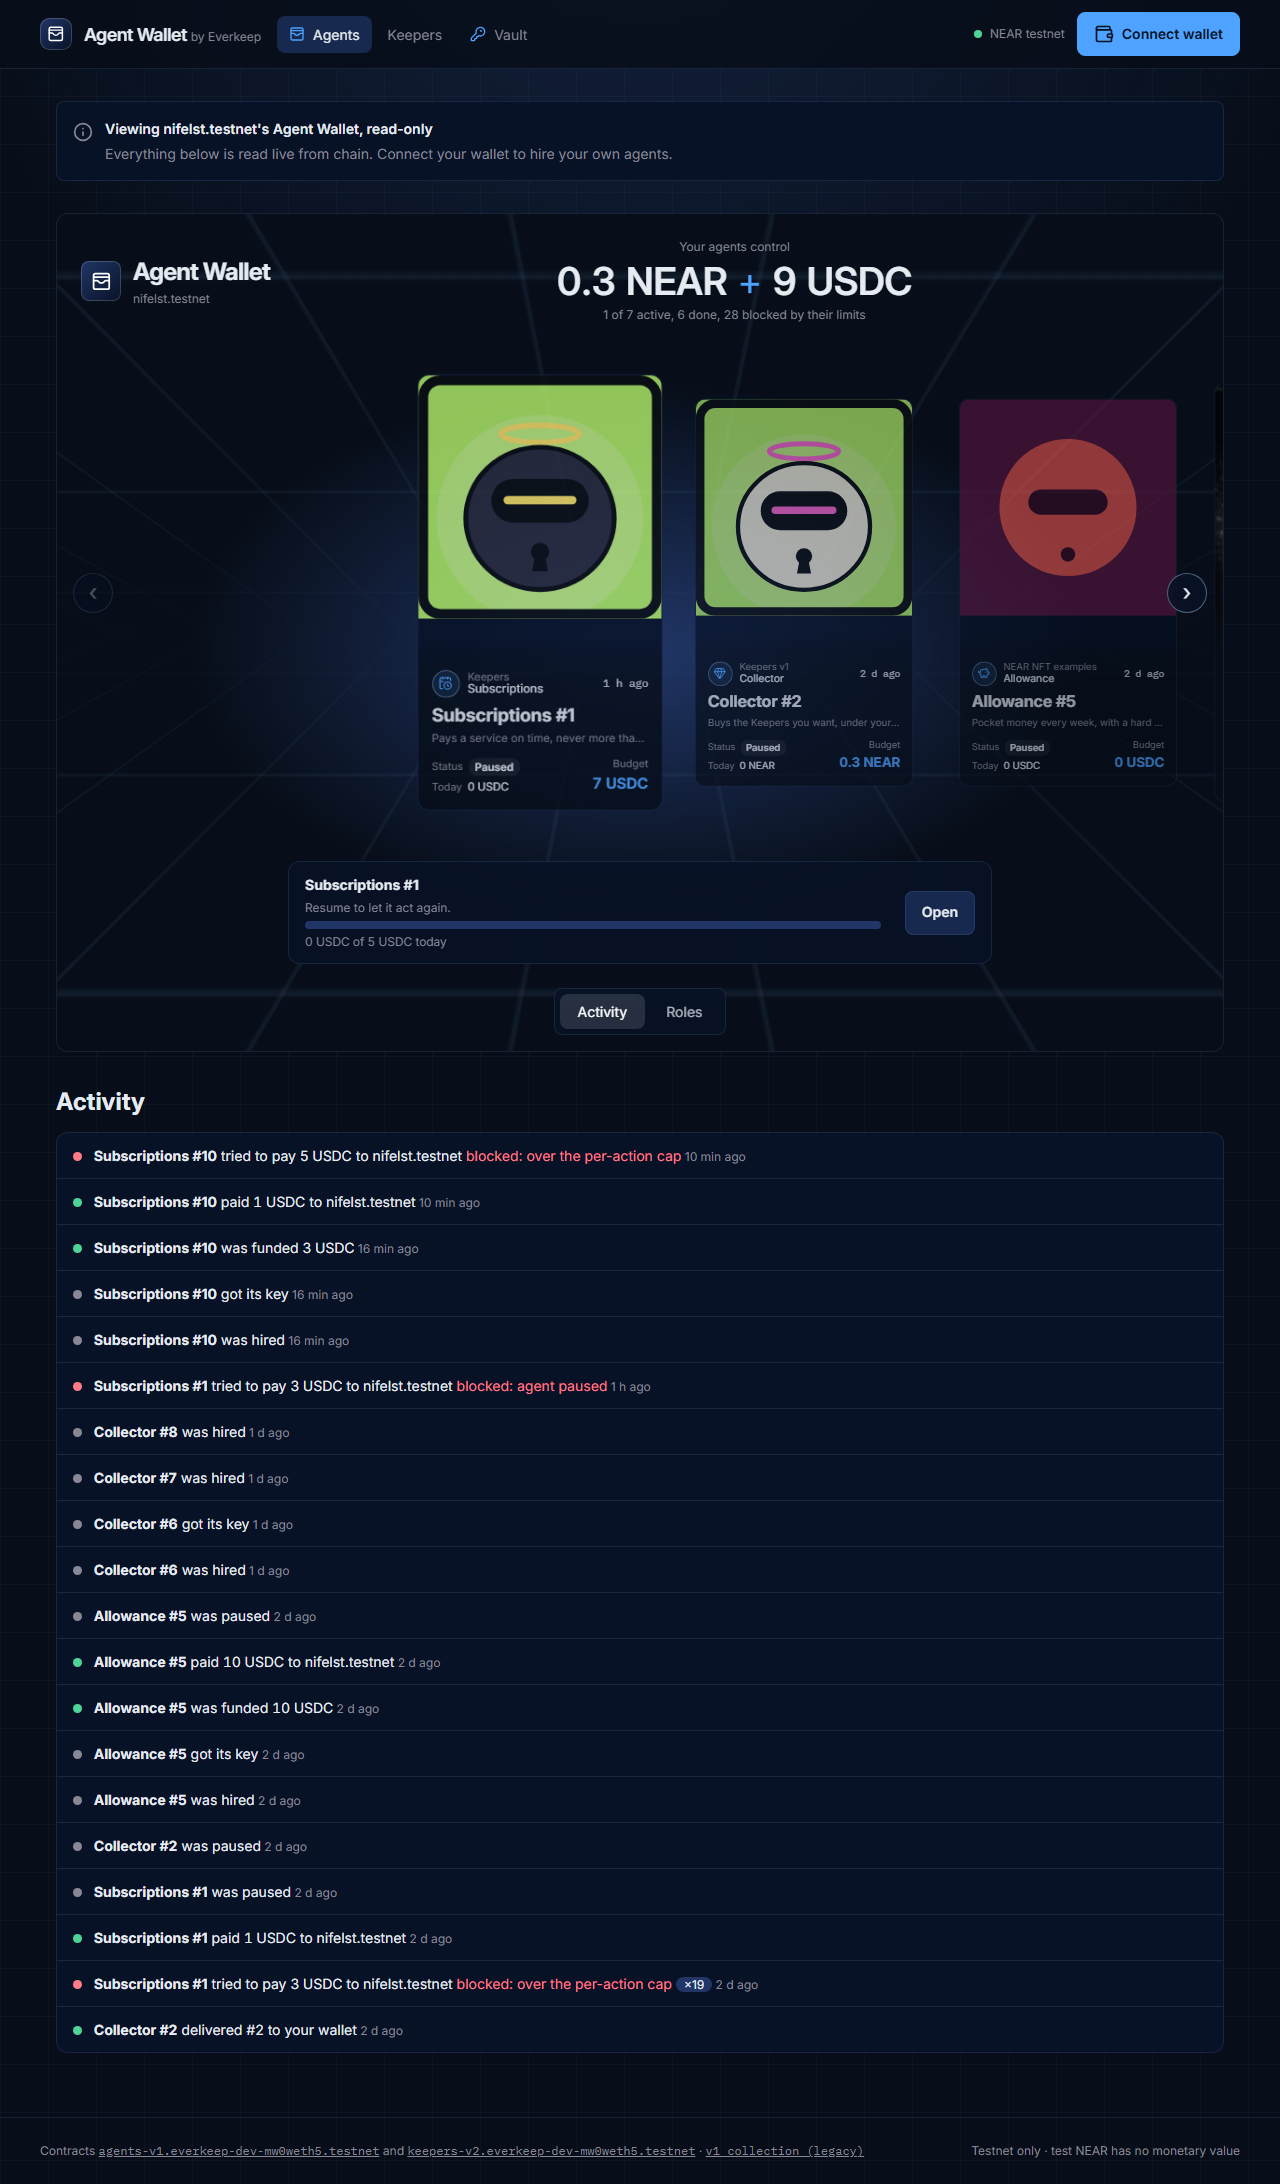
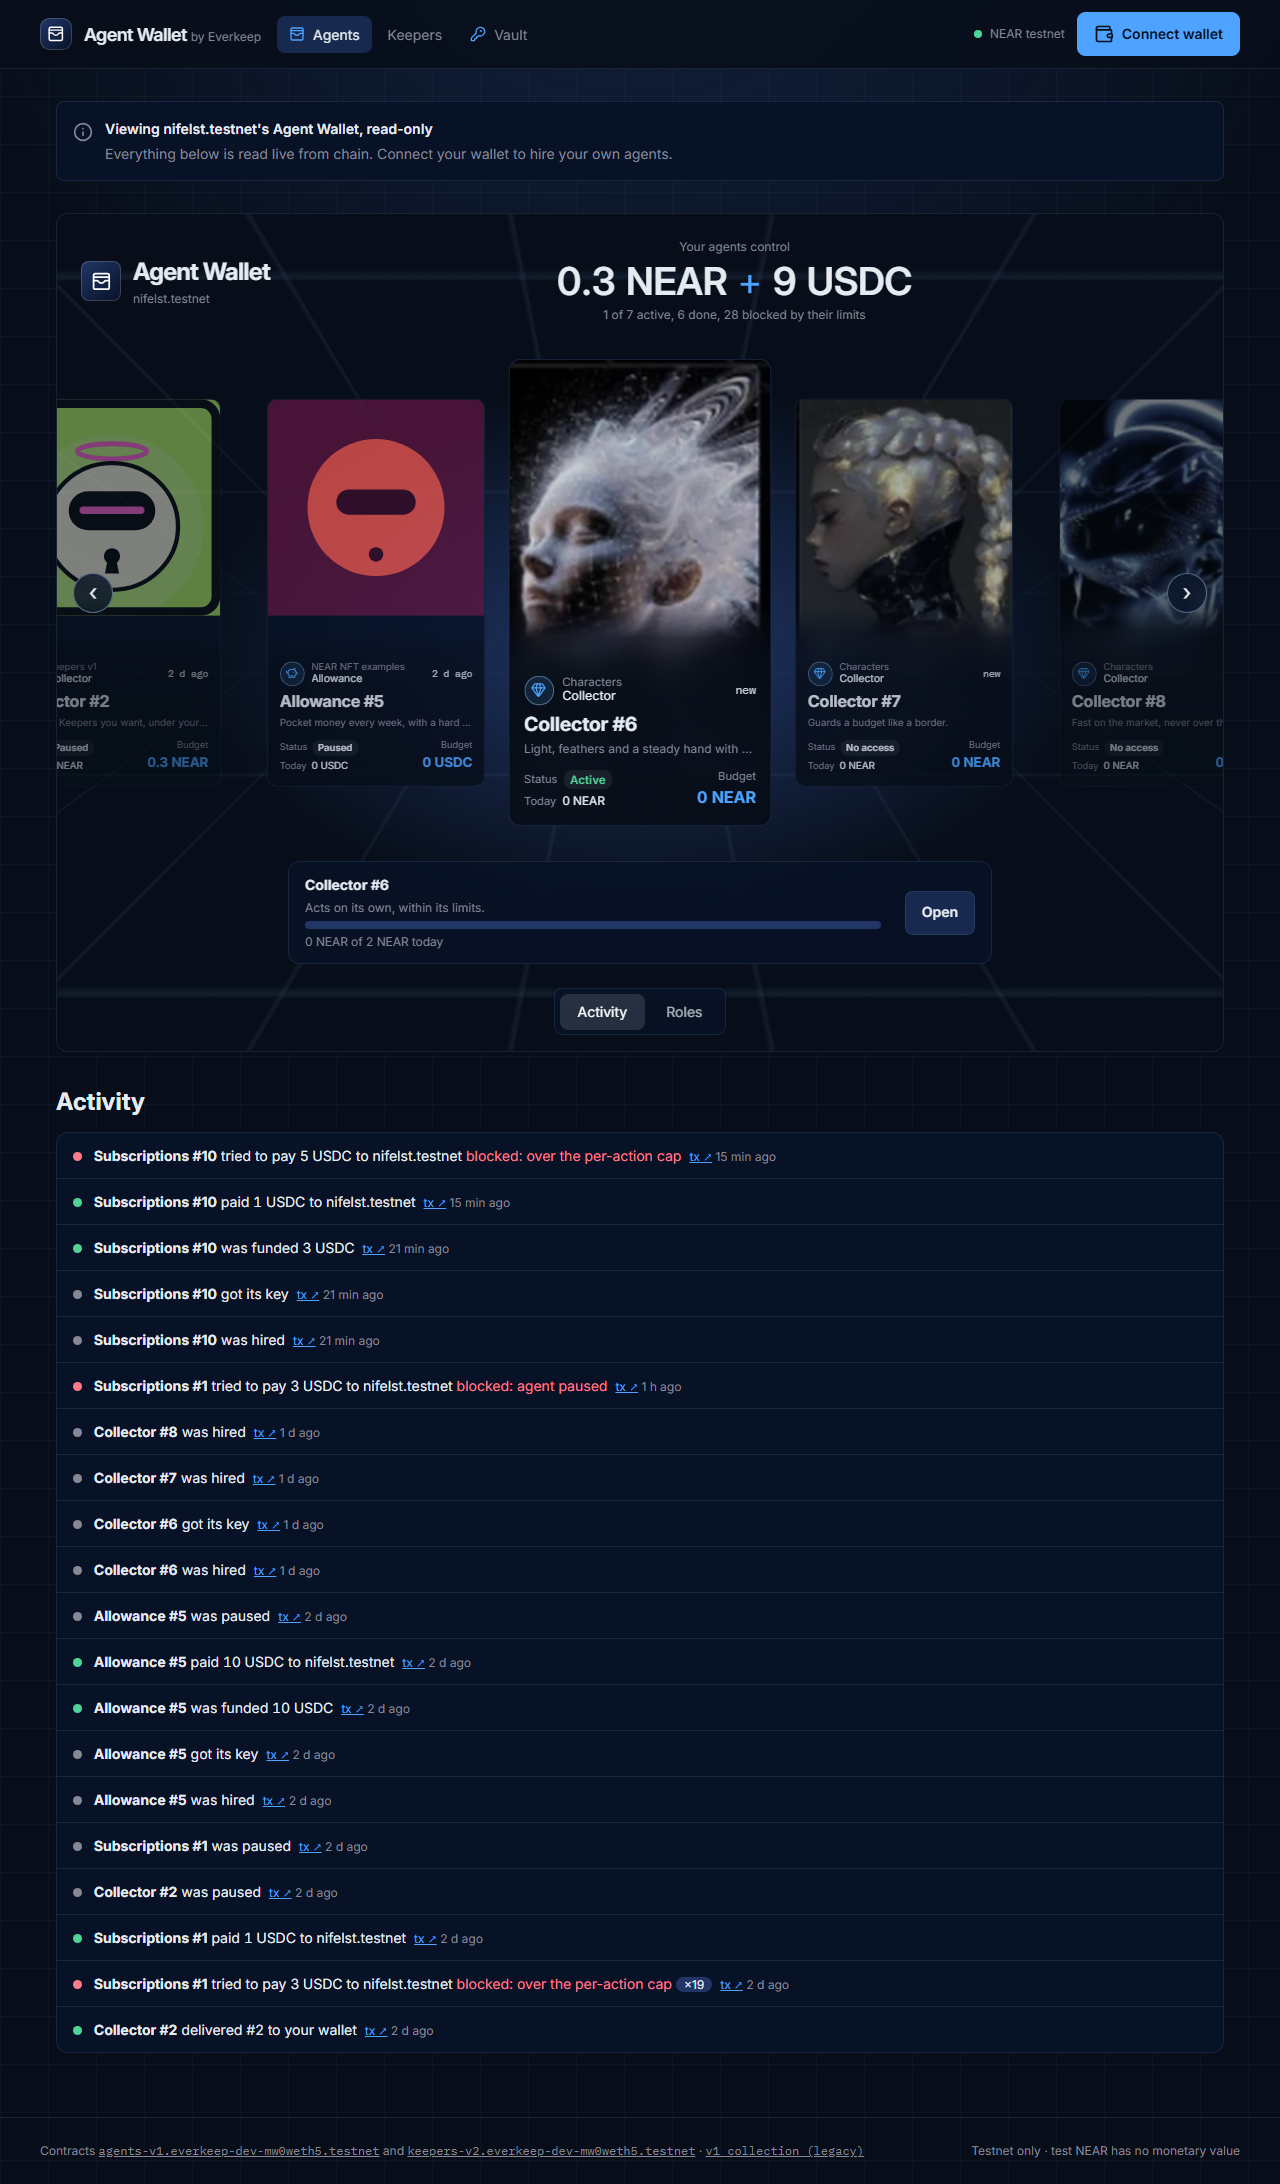
fix(agents): explorer links respect NearBlocks' anonymous rate limit
One-minute cache and one request in flight per owner, at most 2 pages, a
minute of back-off after a 429, and the agent page only refetches links when
its newest log entry is not linked yet. Browser checks ignore the explorer's
429 (it only hides tx links).

diff --git a/src/keepers/agents.ts b/src/keepers/agents.ts
@@ -553,6 +553,9 @@ export const mcpCommand = (file: string) => `npx tsx scripts/agent-mcp.ts --key 
 type IndexedTx = { hash: string; ts: bigint; method: string; ok: boolean };
 const NEARBLOCKS = "https://api-testnet.nearblocks.io/v3";
 const txCache = new Map<string, { at: number; txs: IndexedTx[] }>();
+/** NearBlocks is rate-limited for anonymous use: after a 429, wait a minute. */
+let explorerBackoffUntil = 0;
+const inflight = new Map<string, Promise<IndexedTx[]>>();
 
 const METHODS: Record<string, string[]> = {
   pay: ["agent_pay"],
@@ -569,15 +572,32 @@ const METHODS: Record<string, string[]> = {
   reset: ["agent_pay", "agent_buy", "claim_seat"],
 };
 
-/** The owner's recent transactions to the agents contract, newest first (cached 20 s). */
-export async function ownerTxs(owner: string, oldest: bigint): Promise<IndexedTx[]> {
+/**
+ * The owner's recent transactions to the agents contract, newest first.
+ * Cached a minute, one request in flight per owner, and no call at all for a
+ * minute after the explorer says 429.
+ */
+export function ownerTxs(owner: string, oldest: bigint): Promise<IndexedTx[]> {
   const hit = txCache.get(owner);
-  if (hit && Date.now() - hit.at < 20_000 && (hit.txs.at(-1)?.ts ?? 0n) <= oldest) return hit.txs;
+  if (hit && Date.now() - hit.at < 60_000) return Promise.resolve(hit.txs);
+  if (Date.now() < explorerBackoffUntil) return Promise.resolve(hit?.txs ?? []);
+  const running = inflight.get(owner);
+  if (running) return running;
+  const p = fetchOwnerTxs(owner, oldest).finally(() => inflight.delete(owner));
+  inflight.set(owner, p);
+  return p;
+}
+
+async function fetchOwnerTxs(owner: string, oldest: bigint): Promise<IndexedTx[]> {
   const txs: IndexedTx[] = [];
   let next: string | undefined;
-  for (let page = 0; page < 5; page++) {
+  for (let page = 0; page < 2; page++) {
     const url = `${NEARBLOCKS}/accounts/${AGENTS}/txns?limit=100&signer=${encodeURIComponent(owner)}${next ? `&next=${encodeURIComponent(next)}` : ""}`;
     const r = await fetch(url, { signal: AbortSignal.timeout(15_000) });
+    if (r.status === 429) {
+      explorerBackoffUntil = Date.now() + 60_000;
+      break;
+    }
     if (!r.ok) break;
     const d = (await r.json()) as {
       data?: { transaction_hash: string; block_timestamp: string; actions?: { method?: string }[]; outcomes?: { status?: boolean } }[];
@@ -598,7 +618,8 @@ export async function ownerTxs(owner: string, oldest: bigint): Promise<IndexedTx
     const r = await fetch(`${NEARBLOCKS}/accounts/${USDC}/txns?limit=50&signer=${encodeURIComponent(owner)}`, {
       signal: AbortSignal.timeout(15_000),
     });
-    if (r.ok) {
+    if (r.status === 429) explorerBackoffUntil = Date.now() + 60_000;
+    else if (r.ok) {
       const d = (await r.json()) as { data?: { transaction_hash: string; block_timestamp: string; actions?: { method?: string }[] }[] };
       for (const t of d.data ?? [])
         if (t.actions?.[0]?.method === "ft_transfer_call")

diff --git a/src/keepers/AgentsPage.tsx b/src/keepers/AgentsPage.tsx
@@ -1599,6 +1599,7 @@ export function AgentPage({ id, wallet, navigate }: { id: string; wallet: Wallet
   const [seat, setSeat] = useState<Seat | null | undefined>();
   const [log, setLog] = useState<LogEntry[]>([]);
   const [logTx, setLogTx] = useState<Record<string, string>>({});
+  const linkedSeq = useRef("");
   const [nftOwner, setNftOwner] = useState<string | null>(null);
   const [gasLeft, setGasLeft] = useState<string | null | undefined>();
   const [fund, setFund] = useState("");
@@ -1612,7 +1613,8 @@ export function AgentPage({ id, wallet, navigate }: { id: string; wallet: Wallet
     if (!s) return;
     const entries = await ag.seatLog(id);
     setLog(entries);
-    if (entries.length)
+    const newest = entries[0]?.seq ?? "";
+    if (entries.length && newest !== linkedSeq.current)
       void ag
         .ownerTxs(s.owner, BigInt(entries.at(-1)!.at) - 60_000_000_000n)
         .then((txs) => {
@@ -1621,6 +1623,8 @@ export function AgentPage({ id, wallet, navigate }: { id: string; wallet: Wallet
             const h = ag.txForEntry(e, txs);
             if (h) m[e.seq] = h;
           }
+          // Retry on a later refresh if the newest entry is not linked yet (explorer lag or rate limit).
+          if (m[newest]) linkedSeq.current = newest;
           setLogTx(m);
         })
         .catch(() => {});
